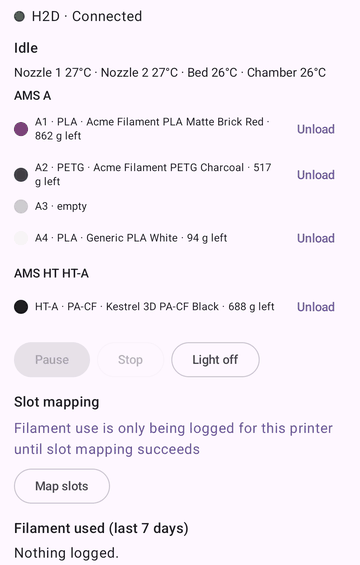
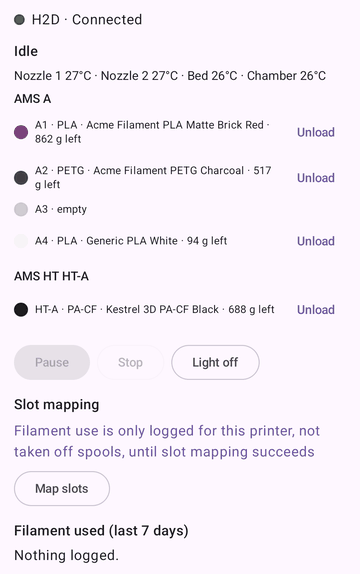
docs: slot-mapping results in the Android guide, Map slots details in the user guide, v0.4.1 notes for the X2D and the app texts

diff --git a/docs/android-app.md b/docs/android-app.md
@@ -84,7 +84,7 @@ You need a Bambu Lab printer on the same network as the server, switched on.
 **add printer**, with its name, IP address, serial number and Access Code. (A server in WSL or a virtual machine
 behind NAT can't see printers; see [Running the server in WSL](install-server.md#running-the-server-in-wsl).)
 
-<img src="images/android-printer-screen.png" width="240" alt="A printer's screen: slots with Unload, and Map slots">
+<img src="images/android-printer-screen.png" width="240" alt="A printer's screen: slots with Unload, Slot mapping and Map slots">
 
 ### Slot mapping (only if you want filament use counted)
 
@@ -95,7 +95,14 @@ printer's screen under **Filament used (last 7 days)**.
 1. Open the printer, make sure it's idle, and tap **Map slots**.
 2. Read the box and tap **Map slots** again. The app briefly changes each slot's colour on the printer, one at a
    time, and runs a short job that doesn't heat or move anything; every slot is set back afterwards.
-3. **Slots mapped (n)** means it worked. **Slot mapping failed** says why; fix that and tap **Map slots again**.
+3. **Slots mapped (n)** means it worked. **Slots mapped: confirmed for the loaded slots** also works; map again once
+   a second unit or an HT has a spool loaded, to settle the numbering. **Slot numbering not confirmed** or
+   **Slot mapping failed** lists what the server reported; fix that and tap **Map slots again**. **Layout changed** or
+   **Recent prints disagreed with the map** means a new mapping is due; it starts by itself when the printer is
+   idle, or tap **Map slots again**. A result from an earlier server run is labelled as old: it may be fixed by now.
+
+The **Map slots** button is greyed only while the printer is not connected or is printing, or while a mapping runs.
+Until a mapping works, use is only logged, not taken off spools.
 
 ### Load and unload a spool
 

diff --git a/release-notes/v0.4.1.md b/release-notes/v0.4.1.md
@@ -21,6 +21,17 @@ module is on, even if the Bambu printers module is off. Each row shows the print
 - `sudo filament-kit station pairing-state` prints the same answer on one line: `paired <address>:<port>`, `unpaired`
   or `unchecked`.
 
+### Slot mapping on the X2D, and clearer results
+
+- **X2D.** Mapping the slots now works on the X2D: the calibration job carries the printer settings the X2D needs, and
+  external holders and empty slots stay out of it. A printer with no AMS unit maps without a job.
+- **Old results and Developer Mode.** A mapping result from an earlier server run is labelled as old. A Developer
+  Mode refusal clears on a new connection, and no longer greys out **Map slots**.
+- **The app says what a result means.** **Slots mapped (n)**, **Slots mapped: confirmed for the loaded slots**,
+  **Slot numbering not confirmed**, **Slot mapping failed**, and for a map that is out of date **Layout changed** or
+  **Recent prints disagreed with the map**. **Map slots** is greyed only by the printer (not connected, or printing) or
+  a running mapping.
+
 ### Licences
 
 `THIRD-PARTY.md`, which the Android app shows under Settings > Licences (once you update the app), now lists each
@@ -43,4 +54,5 @@ component with its licence and attribution, nothing else. No licence changed.
    `sudo filament-kit pair --station` on the kit server, then within 10 minutes `sudo filament-kit station pair` on the
    station computer and paste the link.
 3. **Separate station computer.** Run `sudo filament-kit update` there as well.
-4. **Going back to 0.4.0** (`sudo filament-kit update --rollback`): nothing special is needed.
+4. **Going back to 0.4.0** (`sudo filament-kit update --rollback`): nothing special is needed. The printer data file
+   gained a `<slicer-project>` element and a job-file setting that 0.4.0 loads without error.

diff --git a/docs/user-guide.md b/docs/user-guide.md
@@ -352,6 +352,9 @@ slots. **Map slots** in the app (or `sudo filament-kit printer map <serial>` on 
   every slot back as it was.
 - It then runs a short calibration job that has **no heating and no motion** (only comments and a wait), so
   the printer reports which slot it used for each filament. The job file is deleted afterwards.
+- Empty slots, and external holders (a spool holder outside the AMS, numbered as its own id), are
+  not tested and keep their numbers. A printer with no AMS unit needs no job: its holders keep their own ids and it
+  maps without one.
 - The printer must be **idle** (not printing, paused or preparing) and online, or mapping is refused.
 
 Until mapping succeeds, filament use is **only logged** (you can see it in the app's usage list) and nothing is
